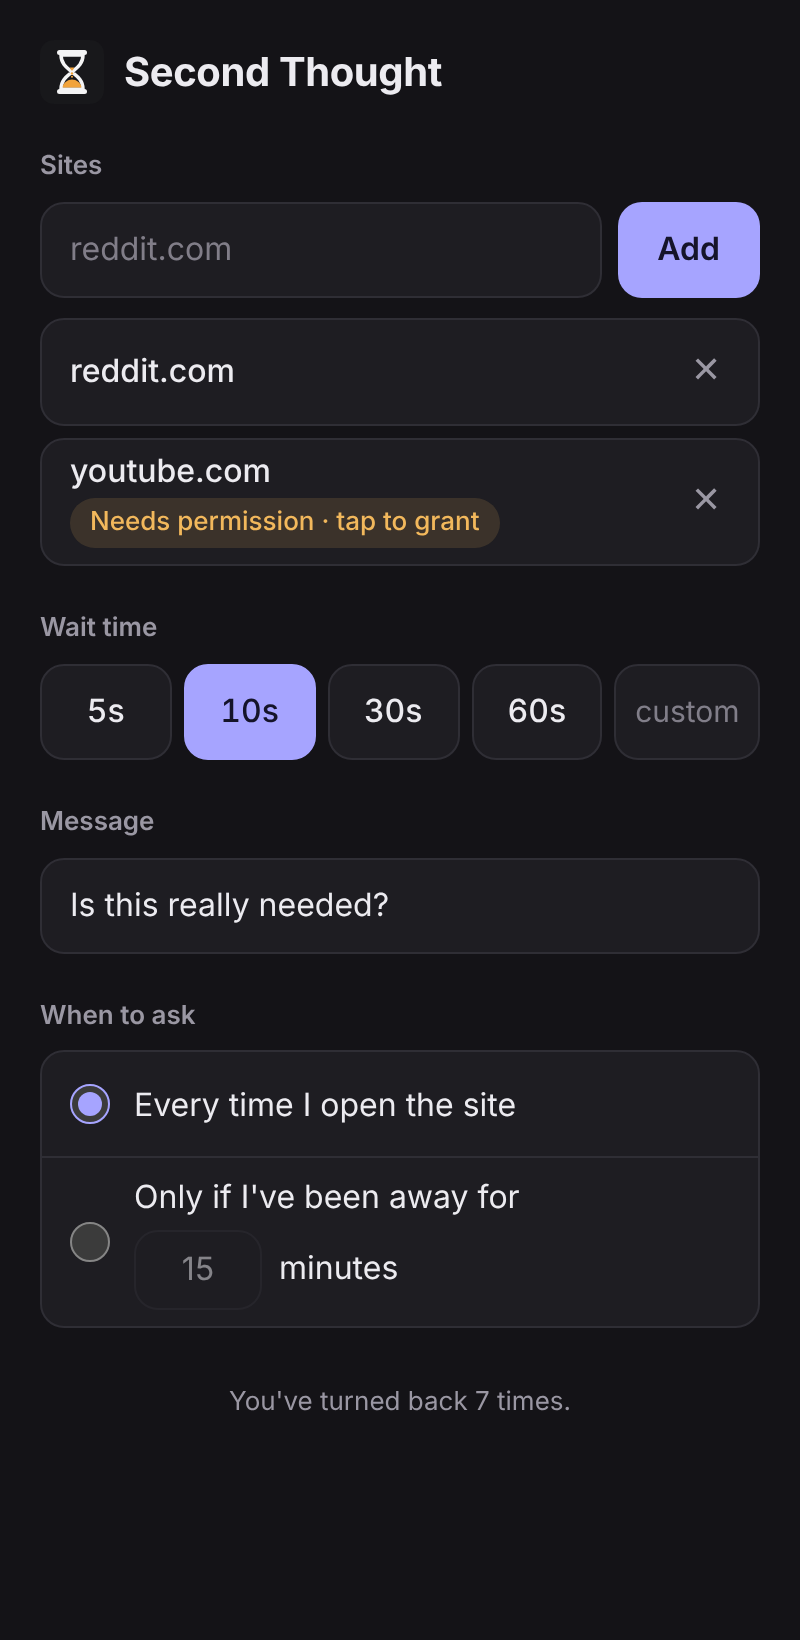
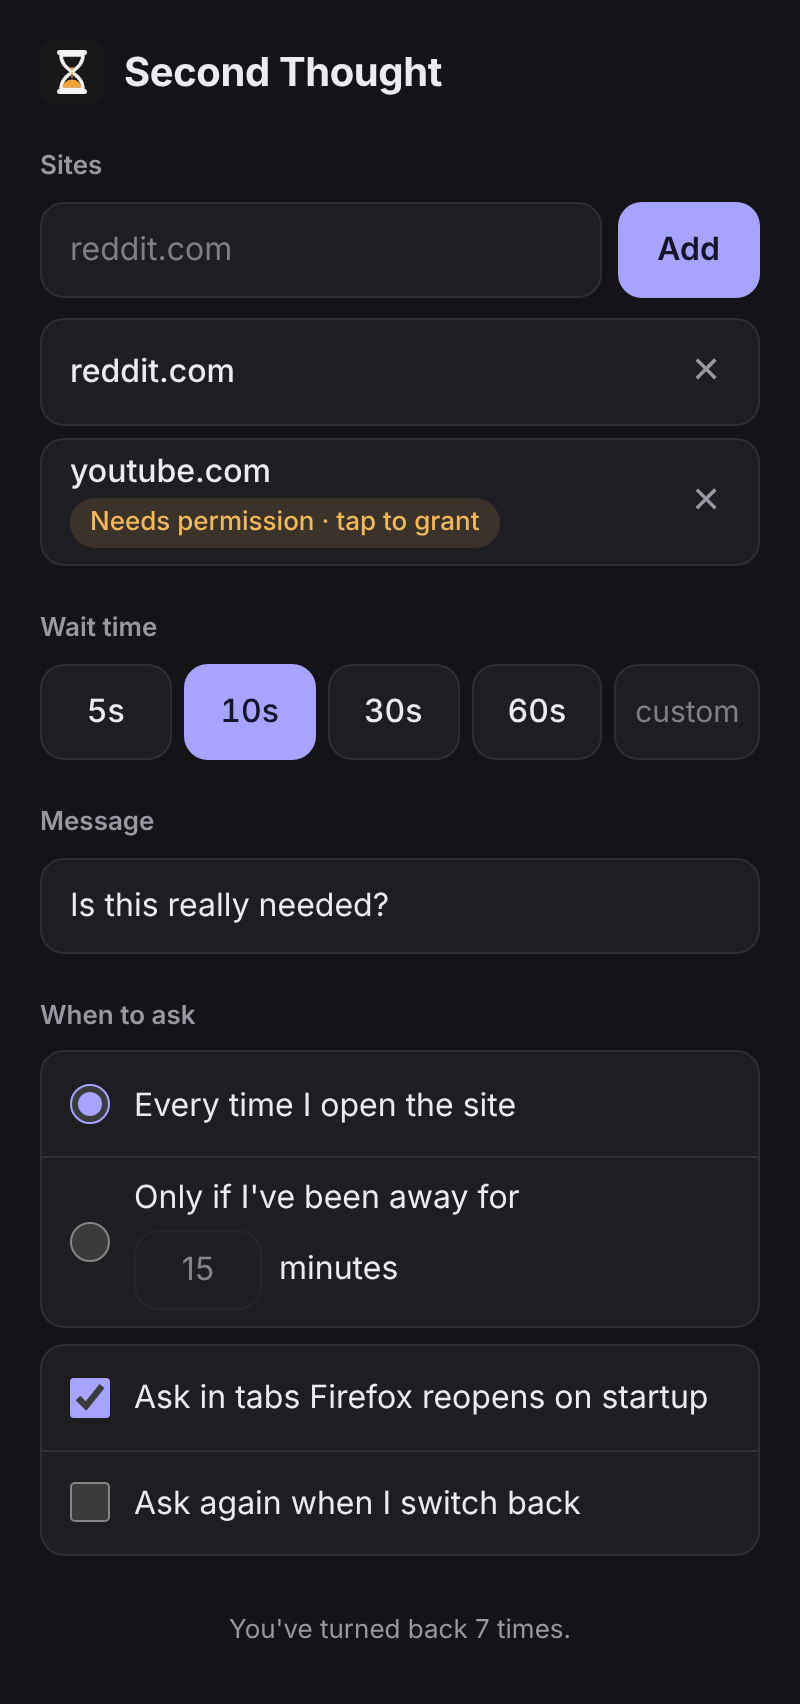
Add "when to ask" switches for reopened tabs and switching back
Two new settings under "When to ask":
- Ask in tabs Firefox reopens on startup (on by default, the current
  behavior). When off, tabs already open on a listed site when Firefox
  starts get through on their first load.
- Ask again when I switch back (off by default). When on, the page is
  hidden as soon as the tab is left and the pause shows again on return;
  in away mode only if the user was gone longer than the set minutes.
  "Nope" on this pause closes the tab.

Claude-Session: https://claude.ai/code/session_01Tw77Knga4RCHSx3PGY5KqA

diff --git a/background.js b/background.js
@@ -8,7 +8,10 @@
  *
  * storage.local:   sites, seconds, message, mode, awayMinutes, turnedBack,
  *                  "active:<site>" (last time a visible tab was on <site>)
- * storage.session: "allow:<tabId>" (the site this tab already got past)
+ * storage.session: "allow:<tabId>"    (the site this tab already got past)
+ *                  "restored:<tabId>" (tab was already open on <site> when
+ *                                      Firefox started)
+ *                  "scanned"          (startup scan done for this session)
  */
 
 const DEFAULTS = {
@@ -17,6 +20,8 @@ const DEFAULTS = {
   message: "Is this really needed?",
   mode: "every", // "every" | "away"
   awayMinutes: 15,
+  askOnRestore: true, // ask in tabs Firefox reopens at startup
+  askOnReturn: false, // ask again when switching back to an open tab
   turnedBack: 0,
 };
 
@@ -50,6 +55,7 @@ function siteForUrl(url, sites) {
 }
 
 const allowKey = (tabId) => `allow:${tabId}`;
+const restoredKey = (tabId) => `restored:${tabId}`;
 const activeKey = (site) => `active:${site}`;
 
 async function getSettings() {
@@ -105,18 +111,63 @@ async function doSync() {
   }
 }
 
+/* ---------- tabs Firefox reopens at startup ---------- */
+
+// storage.session is empty whenever Firefox (or the add-on) starts. The first
+// time this page runs in a session, remember which tabs are already open on
+// a listed site. If "Ask in tabs Firefox reopens" is off, their first load
+// skips the pause.
+async function scanOpenTabs() {
+  const { scanned } = await browser.storage.session.get("scanned");
+  if (scanned) return;
+  const [{ sites }, tabs] = await Promise.all([getSettings(), browser.tabs.query({})]);
+  const marks = { scanned: true };
+  for (const tab of tabs) {
+    const site = siteForUrl(tab.url, sites);
+    if (site) marks[restoredKey(tab.id)] = site;
+  }
+  await browser.storage.session.set(marks);
+}
+
+// Started as soon as this page loads; handlers wait for it.
+const sessionReady = scanOpenTabs().catch((e) => console.error("Second Thought: scan failed", e));
+
+// Returns the site a reopened tab was on, once (the mark is removed).
+async function takeRestoredMark(tabId) {
+  const key = restoredKey(tabId);
+  const { [key]: site } = await browser.storage.session.get(key);
+  if (site) await browser.storage.session.remove(key);
+  return site || null;
+}
+
 /* ---------- visit logic ---------- */
 
-async function handleCheck(host, tabId) {
+// reason: "load" (page loaded) or "return" (tab became visible again).
+async function handleCheck(host, tabId, reason) {
+  await sessionReady;
   const s = await getSettings();
   const site = siteForHost(host, s.sites);
   if (!site) return { prompt: false };
 
-  let prompt = true;
-  if (s.mode === "away") {
+  const awayTooLong = async () => {
     const key = activeKey(site);
     const { [key]: last = 0 } = await browser.storage.local.get(key);
-    prompt = Date.now() - last > s.awayMinutes * 60_000;
+    return Date.now() - last > s.awayMinutes * 60_000;
+  };
+
+  const restored = reason === "return" || tabId == null ? null : await takeRestoredMark(tabId);
+
+  let prompt = true;
+  if (reason === "return") {
+    prompt = s.askOnReturn && (s.mode !== "away" || (await awayTooLong()));
+  } else if (restored === site && !s.askOnRestore) {
+    prompt = false;
+    await Promise.all([
+      browser.storage.session.set({ [allowKey(tabId)]: site }),
+      browser.storage.local.set({ [activeKey(site)]: Date.now() }),
+    ]);
+  } else if (s.mode === "away") {
+    prompt = await awayTooLong();
   } else if (tabId != null) {
     const key = allowKey(tabId);
     const { [key]: allowed } = await browser.storage.session.get(key);
@@ -126,6 +177,7 @@ async function handleCheck(host, tabId) {
   return {
     prompt,
     site,
+    askOnReturn: !!s.askOnReturn,
     seconds: s.seconds,
     message: String(s.message || "").trim() || DEFAULTS.message,
   };
@@ -167,7 +219,7 @@ browser.runtime.onMessage.addListener((msg, sender) => {
   const tabId = sender.tab ? sender.tab.id : undefined;
   switch (msg && msg.type) {
     case "check":
-      return handleCheck(msg.host, tabId);
+      return handleCheck(msg.host, tabId, msg.reason === "return" ? "return" : "load");
     case "continue":
       return handleContinue(msg.site, tabId);
     case "active":
@@ -180,23 +232,25 @@ browser.runtime.onMessage.addListener((msg, sender) => {
   return undefined;
 });
 
-// A tab that leaves the site loses its "already continued" pass.
+// A tab that leaves the site loses its pass and its "reopened" mark.
+// about:blank is skipped: a tab can show it briefly while loading.
 browser.tabs.onUpdated.addListener(
   async (tabId, changeInfo) => {
-    if (!changeInfo.url) return;
-    const key = allowKey(tabId);
-    const { [key]: allowed } = await browser.storage.session.get(key);
-    if (!allowed) return;
+    if (!changeInfo.url || changeInfo.url === "about:blank") return;
+    await sessionReady;
+    const keys = [allowKey(tabId), restoredKey(tabId)];
+    const passes = await browser.storage.session.get(keys);
+    if (!Object.keys(passes).length) return;
     const { sites } = await getSettings();
-    if (siteForUrl(changeInfo.url, sites) !== allowed) {
-      await browser.storage.session.remove(key);
-    }
+    const site = siteForUrl(changeInfo.url, sites);
+    const stale = keys.filter((k) => k in passes && passes[k] !== site);
+    if (stale.length) await browser.storage.session.remove(stale);
   },
   { properties: ["url"] }
 );
 
 browser.tabs.onRemoved.addListener((tabId) => {
-  browser.storage.session.remove(allowKey(tabId));
+  browser.storage.session.remove([allowKey(tabId), restoredKey(tabId)]);
 });
 
 browser.storage.onChanged.addListener((changes, area) => {

diff --git a/content/pause.js b/content/pause.js
@@ -18,6 +18,7 @@
   let holding = false; // page hidden + media held
   let overlay = null; // { host, root, els, timer, ... }
   let heartbeatSite = null;
+  let askOnReturn = false; // "Ask again when I switch back to the tab"
   let savedRootStyle = null;
   let mediaSweep = null;
   const heldMedia = new Map(); // element -> { muted, resume }
@@ -416,7 +417,9 @@
     o.leaving = true;
     o.els.nope.style.opacity = "0.6";
 
-    const canGoBack = history.length > 1;
+    // Pausing on a tab you switched back to: "back" would usually just be
+    // another page of the same site, so leave by closing the tab instead.
+    const canGoBack = !o.info.returning && history.length > 1;
     try {
       await send({ type: "nope", close: !canGoBack });
     } catch {
@@ -438,8 +441,10 @@
     history.back();
   }
 
-  /* ---------- "away" mode heartbeat ---------- */
+  /* ---------- after the page is let through ---------- */
 
+  // Keeps "away" mode's last-active time fresh, and handles switching back
+  // to this tab.
   function startHeartbeat(site) {
     if (!site || heartbeatSite) return;
     heartbeatSite = site;
@@ -451,8 +456,45 @@
     };
     beatIfVisible();
     setInterval(beatIfVisible, 30_000);
-    document.addEventListener("visibilitychange", beat);
     window.addEventListener("pagehide", beat);
+
+    document.addEventListener("visibilitychange", () => {
+      if (holding) return;
+      if (document.visibilityState === "hidden") {
+        beat();
+        // Hide now, so the page can't flash before the check on return.
+        if (askOnReturn) hidePage();
+      } else {
+        checkOnReturn(beat);
+      }
+    });
+  }
+
+  async function checkOnReturn(beat) {
+    let res = null;
+    try {
+      res = await send({ type: "check", host: location.hostname, reason: "return" });
+    } catch {
+      // Extension unreachable: just show the page.
+    }
+    if (res && typeof res.askOnReturn === "boolean") askOnReturn = res.askOnReturn;
+    if (holding || document.visibilityState !== "visible") return;
+    if (res && res.prompt) {
+      hold();
+      showOverlay({ ...res, returning: true });
+    } else {
+      showPage();
+      beat();
+    }
+  }
+
+  // Follow the setting live, so turning it on takes effect in open tabs.
+  try {
+    browser.storage.onChanged.addListener((changes, area) => {
+      if (area === "local" && changes.askOnReturn) askOnReturn = !!changes.askOnReturn.newValue;
+    });
+  } catch {
+    // storage API unavailable; the value from each check is used instead.
   }
 
   /* ---------- deciding ---------- */
@@ -467,6 +509,7 @@
       // side of pausing; Continue still works without the background.
       res = { prompt: true, site: location.hostname, seconds: 10, message: DEFAULT_MESSAGE };
     }
+    if (res && typeof res.askOnReturn === "boolean") askOnReturn = res.askOnReturn;
     if (res && res.prompt) {
       showOverlay(res);
     } else {

diff --git a/options/options.js b/options/options.js
@@ -8,6 +8,8 @@ const DEFAULTS = {
   message: "Is this really needed?",
   mode: "every",
   awayMinutes: 15,
+  askOnRestore: true,
+  askOnReturn: false,
   turnedBack: 0,
 };
 const PRESETS = [5, 10, 30, 60];
@@ -24,6 +26,8 @@ const els = {
   message: $("message"),
   modes: [...document.querySelectorAll('input[name="mode"]')],
   awayMinutes: $("away-minutes"),
+  askRestore: $("ask-restore"),
+  askReturn: $("ask-return"),
   counter: $("counter"),
   toast: $("toast"),
 };
@@ -298,6 +302,21 @@ els.awayMinutes.addEventListener("blur", () => {
   renderMode();
 });
 
+for (const [el, key] of [
+  [els.askRestore, "askOnRestore"],
+  [els.askReturn, "askOnReturn"],
+]) {
+  el.addEventListener("change", () => {
+    state[key] = el.checked;
+    save({ [key]: el.checked });
+  });
+}
+
+function renderToggles() {
+  els.askRestore.checked = !!state.askOnRestore;
+  els.askReturn.checked = !!state.askOnReturn;
+}
+
 /* ---------- counter ---------- */
 
 function renderCounter() {
@@ -312,6 +331,7 @@ function renderAll() {
   renderSeconds();
   if (document.activeElement !== els.message) els.message.value = state.message;
   renderMode();
+  renderToggles();
   renderCounter();
 }
 

diff --git a/options/options.html b/options/options.html
@@ -64,6 +64,16 @@
           </span>
         </label>
       </div>
+      <div class="choices toggles">
+        <label class="choice">
+          <input id="ask-restore" type="checkbox">
+          <span>Ask in tabs Firefox reopens on startup</span>
+        </label>
+        <label class="choice">
+          <input id="ask-return" type="checkbox">
+          <span>Ask again when I switch back</span>
+        </label>
+      </div>
     </section>
 
     <footer id="counter"></footer>

diff --git a/options/options.css b/options/options.css
@@ -286,7 +286,10 @@ input:focus-visible { outline: none; }
 
 .choice + .choice { border-top: 1px solid var(--line); }
 
-.choice input[type="radio"] {
+.toggles { margin-top: 8px; }
+
+.choice input[type="radio"],
+.choice input[type="checkbox"] {
   flex: none;
   width: 20px;
   height: 20px;

diff --git a/README.md b/README.md
@@ -21,6 +21,8 @@ Tap the toolbar button (on Android: **⋮ menu → Extensions → Second Thought
 | **Wait time** | 5 / 10 / 30 / 60 seconds, or type your own. |
 | **Message** | What the pause screen asks you. |
 | **When to ask** | *Every time I open the site*: once you continue, that tab stays unlocked until it leaves the site. *Only if I've been away for N minutes*: no pause if you were on the site recently. |
+| **Ask in tabs Firefox reopens on startup** | On (default): a tab Firefox reopens on a listed site asks again. Off: tabs that were already open when Firefox started go straight through. |
+| **Ask again when I switch back** | Off (default). On: coming back to a site's tab (from another tab or app, or after locking the phone) asks again. In *away* mode it only asks if you were gone longer than your minutes. "Nope" on this pause closes the tab. |
 
 Changes save as you make them.
 
@@ -43,7 +45,8 @@ Plain JS/HTML/CSS. No build step, no dependencies. The only tool is [`web-ext`](
 - **Pause screen:** at `document_start` the script hides `<html>` with inline `!important` styles, so neither CSP nor site CSS can undo them. It pauses and mutes every `<video>`/`<audio>`, including ones inside shadow roots, then asks the background script whether this visit needs a pause. The overlay lives in a closed shadow root. Continue and Nope restore or leave the page.
 - **Visits:** in *every time* mode, a per-tab pass (`allow:<tabId>` in `storage.session`) is set on Continue. It's cleared when the tab goes to another site or closes. In *away* mode, `active:<site>` in `storage.local` is refreshed every 30 s and on visibility changes while a visible tab is on the site.
 - **Back/Forward:** returning to a page from the back/forward cache counts as a new visit, so it's checked again.
-- **Restarting Firefox:** passes live in `storage.session`, which Firefox clears when it quits. So a tab Firefox reopens on a listed site asks again (in *away* mode, only if you've been away long enough). This is intentional.
+- **Restarting Firefox:** passes live in `storage.session`, which Firefox clears when it quits, so a reopened tab asks again by default. The first time the background runs in a session, it notes which tabs are already open on a listed site (`restored:<tabId>`). With *Ask in tabs Firefox reopens* off, that mark lets the tab's first load through.
+- **Switching back:** with *Ask again when I switch back* on, the content script hides the page as soon as the tab becomes hidden. When the tab is visible again, it asks the background (`reason: "return"`) and either shows the pause or reveals the page.
 
 ## Develop and test
 
@@ -75,7 +78,8 @@ npx web-ext build                # makes web-ext-artifacts/second_thought-<versi
 4. Click a Reddit link from another site → **Nope** → you're back on that site. Open Reddit in a fresh tab → **Nope** → the tab closes. The counter in settings goes up.
 5. Switch to *away* mode with 1 minute. Leave Reddit for over a minute and come back → it prompts. Come back sooner → it doesn't.
 6. `old.reddit.com` is covered. Remove `reddit.com` → no more prompts.
-7. With Reddit open in a tab (in *every time* mode), quit Firefox and start it again → the reopened Reddit tab asks again.
+7. With Reddit open in a tab (in *every time* mode), quit Firefox and start it again → the reopened Reddit tab asks again. Turn off *Ask in tabs Firefox reopens* and repeat → it doesn't.
+8. Turn on *Ask again when I switch back*. Continue into Reddit, switch to another tab, then come back → the pause shows again. "Nope" closes the tab.
 
 ## Publish on addons.mozilla.org (AMO)
 
